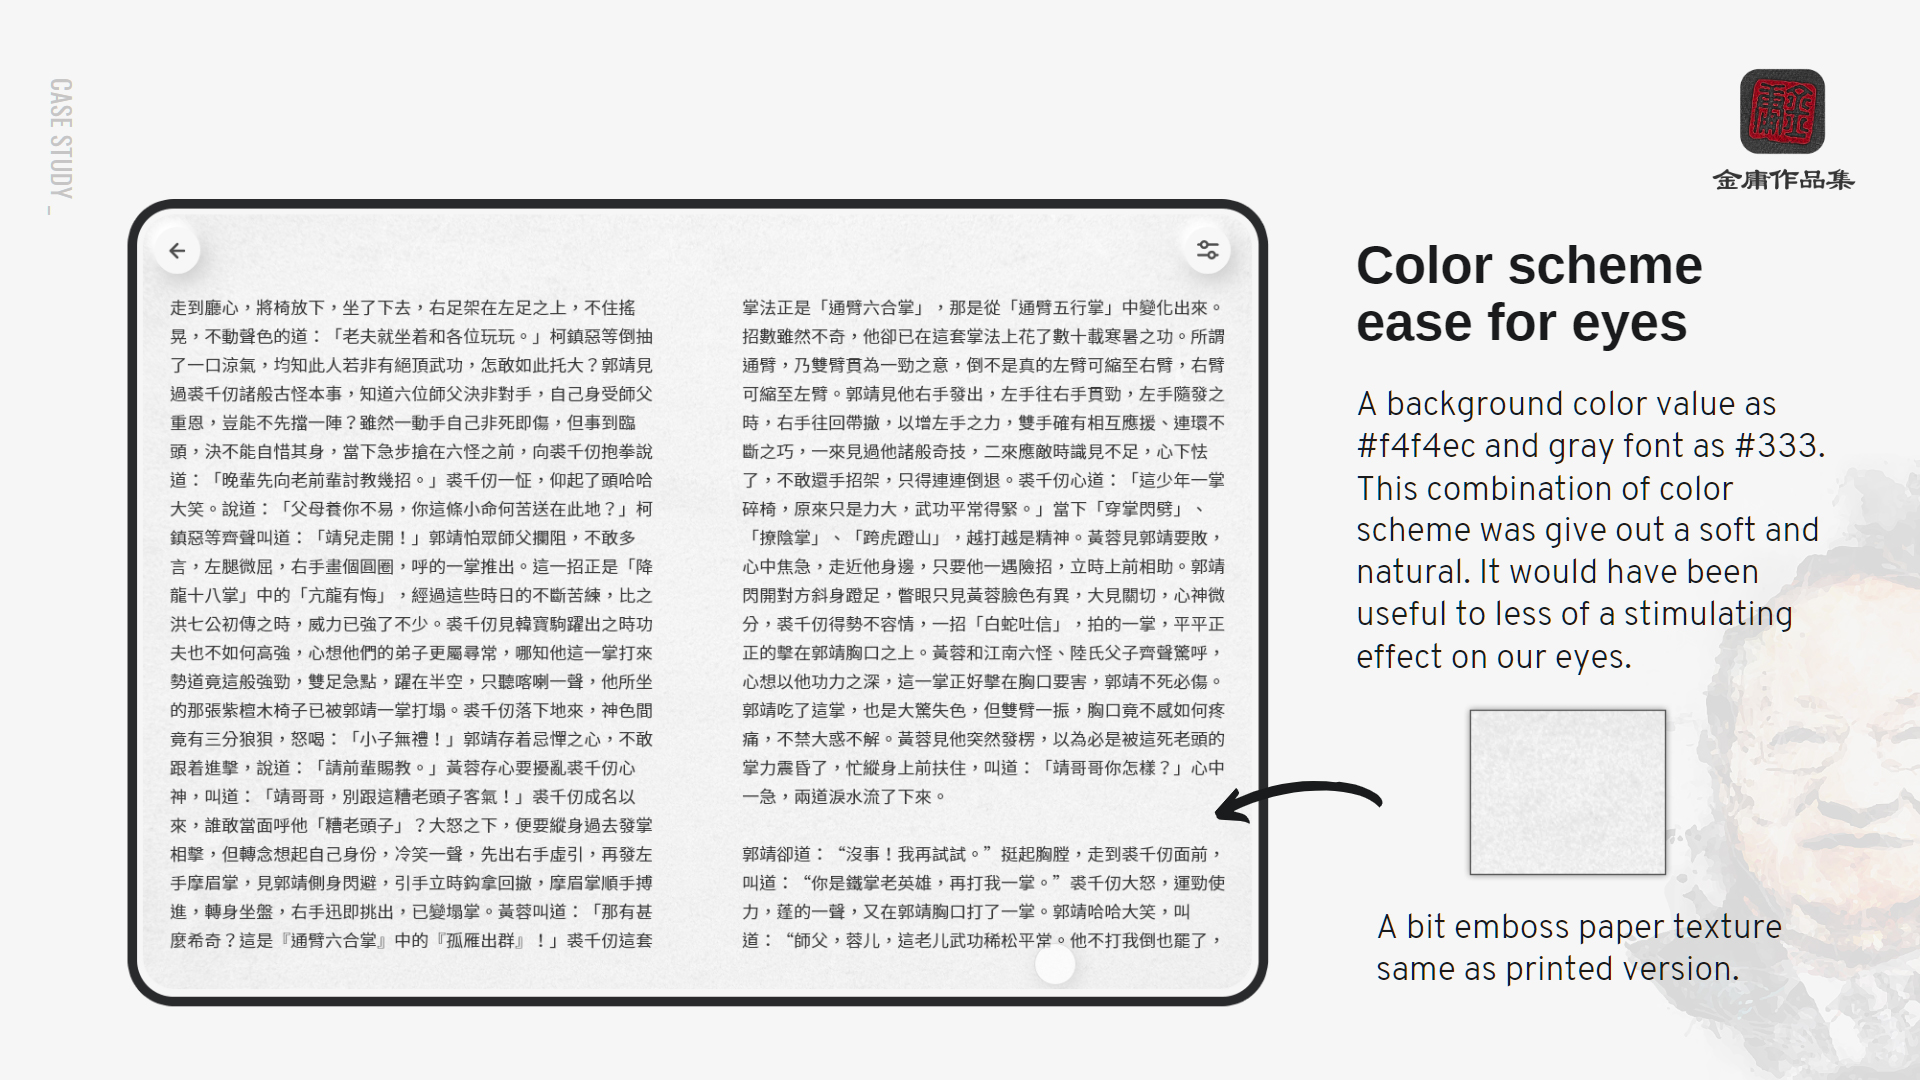
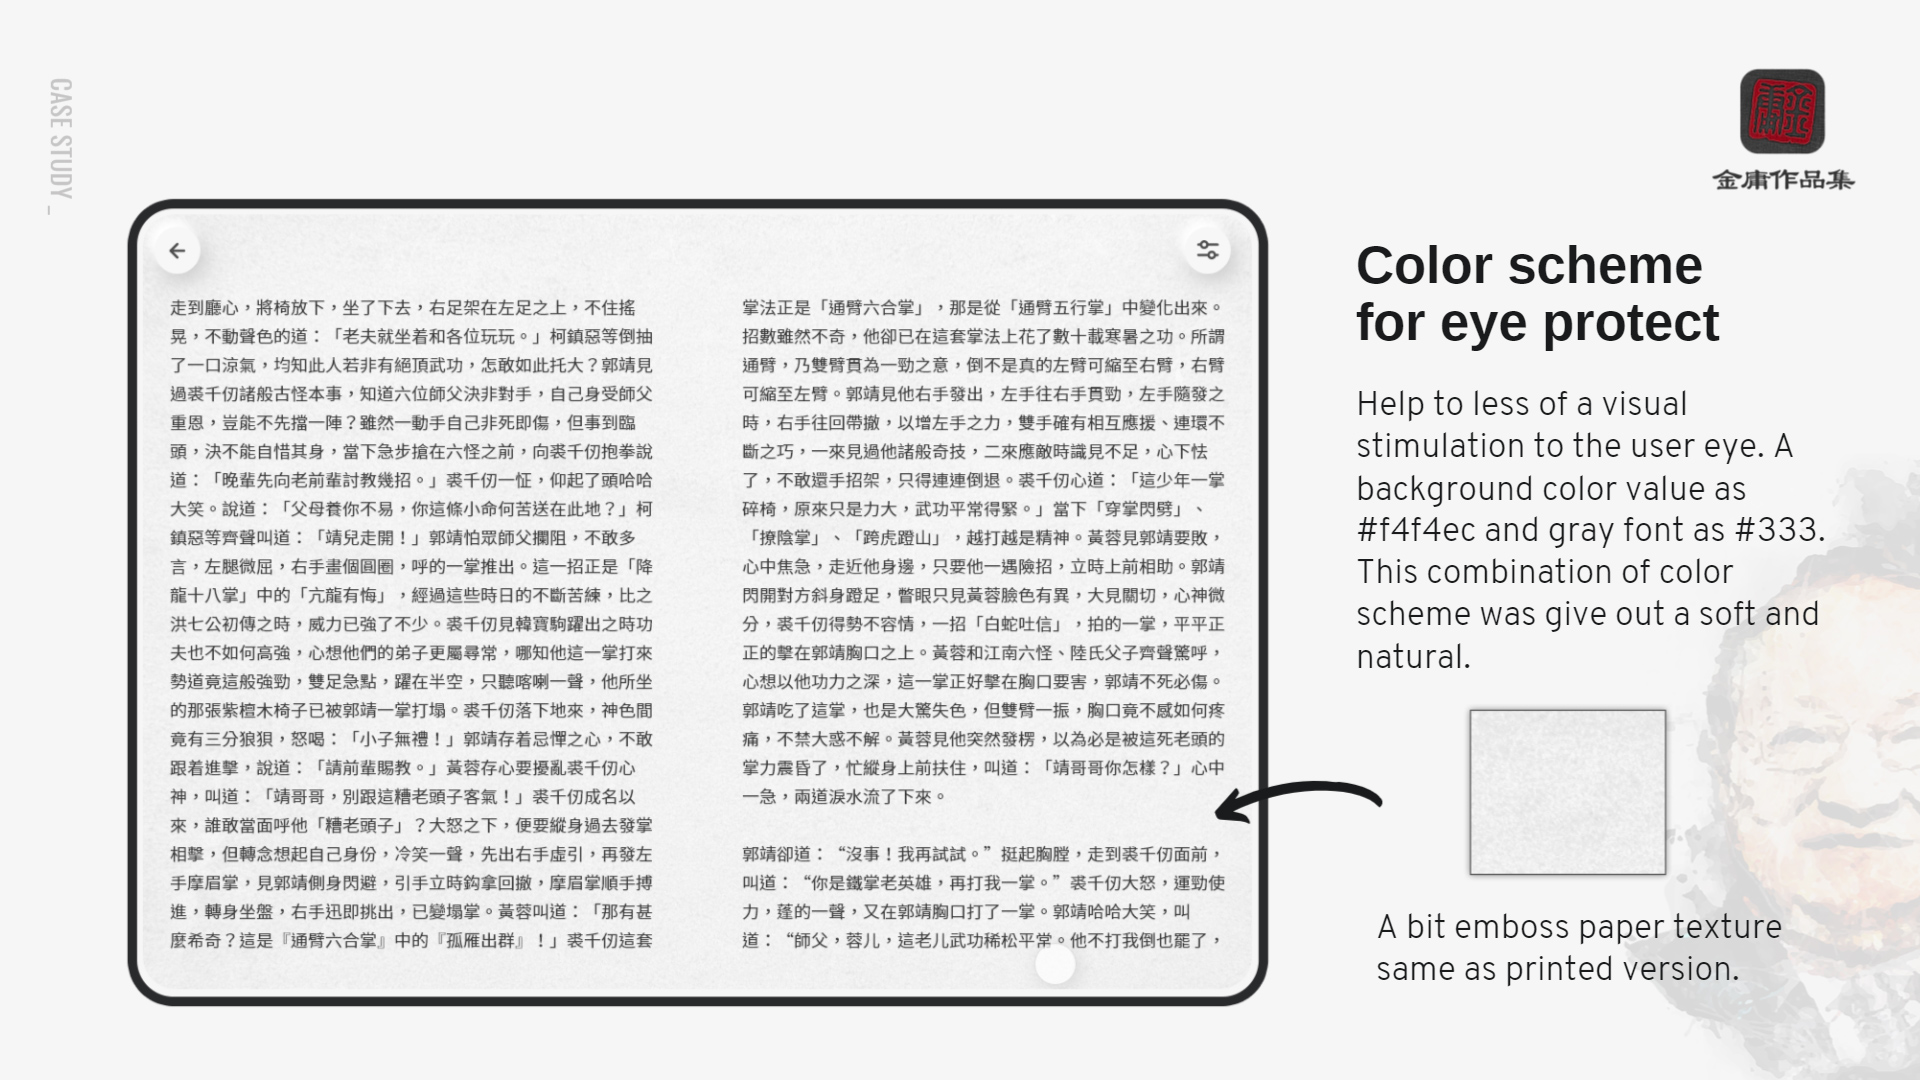
210223_01

diff --git a/jinyong_case_study.html b/jinyong_case_study.html
@@ -546,7 +546,7 @@ body, .body {
 
 
     <div class="copy-width spacing-large">
-        <p class=" h1 spacing-small">跟住嚟到, Solution Prototype部份。</p>
+        <p class=" h1 spacing-small">跟住嚟到,  Prototype部份。</p>
 
         <p class=" body spacing-medium">(下一頁 Slide.....)</p>
     </div>
@@ -563,7 +563,7 @@ body, .body {
 
         <p class=" h1 spacing-title">「 The reimagined Jin-Yong’s Themed-Bookstore 」 重新構想嘅 金庸主題書店</p>
 
-        <p class=" body spacing-small">第1個 Demo 展示金庸主題書店, 同埋書店嘅主頁......可以睇下Demo先.......</p>
+        <p class=" body spacing-small">第1個 Demo 展示金庸主題書店Landing, 同埋書店嘅內容結構......可以睇下Demo先.......</p>
 
 
         <p class=" body h1 spacing-copy">Demo解說: Play and Pause </p>
@@ -572,17 +572,16 @@ body, .body {
 
 
 
-
         <p class=" body h1 spacing-copy">Home UI部份 解說:</p>
 
-        <p class=" body spacing-small">呢度, 唔係單純書架UI, 分左section, Click相關插圖, 入去唔同嘅頁面, 係1個無限Looping posterboard 導航。</p>
+        <p class=" body spacing-small">Landing呢度, 係1個Looping posterboard 導航。 Click相關插圖, 入去唔同嘅頁面, </p>
 
         <p class=" body spacing-small">主題書店有4個部份<br>
             鉅著: 書店主頁<br>
-            有3個新加左嘅 互動內容<br>
+            另外, 有3個新加左嘅 互動內容<br>
             煮酒: 係小說人物資料<br>
             論劍: 係武功資料<br>
-            道盡: 關於金庸info
+            道盡: 關於金庸資訊
         </p>
 
         <p class=" h6 spacing-title">******總結: 提升左做主題書店, 整體UI 同Visual 都比Users多D共鳴, 唔係單純小說文字閱讀App, 針對番第3個 Pain point: UI唔吸引問題。</p>
@@ -595,7 +594,7 @@ body, .body {
         <p class=" h1 spacing-title">「 Bookstore 」 書店 UI部份 解說:</p>
 
 
-        <p class=" body spacing-medium">呢度係 書店Page，分左三類書籍，1.“細讀巨匠” 係金庸小說集，2.“江湖以外” 係小說參考書，3.“論盡金學” 係研究金學書籍, 豐富左主題書店書籍類別, 亦都可以擴大讀者群。 <------呢度係 針對番第4個 Pain point: 缺少左其他相關書籍。</p>
+        <p class=" body spacing-medium">呢度係 書店Page，分左三類書籍，第1有金庸小說集，第2係小說參考書，第3係金學研究, 豐富左主題書店類別, 亦都可以擴大讀者群。 <------呢度係 針對番第4個 Pain point: 缺少左其他相關書籍。</p>
 
 
         <p class=" body spacing-medium">跟住睇 (下一頁 Slide.....)</p>
@@ -606,11 +605,12 @@ body, .body {
 
 
     <div class="copy-width spacing-large">
-        <p class=" h1 spacing-title">「 Designing for long-form novel reads 」 為長篇小說閱讀 而設計功能</p>
+        <p class=" h1 spacing-title">「 Reinforced in-App feature for long-form reading 」 專為長篇小說閱讀 强化嘅功能</p>
 
         <p class=" body spacing-small">第2個 Demo展示 強化左閱讀功能, 同埋睇小說時嘅操作, 可以睇下Demo先.......</p>
 
         <p class=" body spacing-large">(下一頁 Slide.....)</p>
+
 
 
         <p class=" body h1 spacing-copy">UI部份 解說:</p>
@@ -618,28 +618,28 @@ body, .body {
         <p class=" body spacing-small">呢度係 “我的書架”頁面, 可以睇到自已詳細閱讀狀態 例如:<br>
 
         當前閱讀小說<br>
-        同埋已閱讀嘅頁面百分比 <br>
+        已閱讀嘅百分比 <br>
         評估完成小說所需要嘅時間<br>
         同埋章節/頁數詳細信息 <br>
         上次閱讀嘅時間<br><br>
 
-        <p class=" body spacing-small">******總結:  User唔再需要 假設閱讀 需要用幾多時間, 同埋每次睇完之後, 呢度都會更新。 比Users 係時間方面 有多D掌握。</p>  
+        <p class=" body spacing-small">******總結:  比Users 係時間方面 有多D掌握, 同埋每次睇完之後, 呢度都會更新。 </p>  
 
         <p class=" body spacing-large">(下一頁 Slide.....)</p>
 
         
 
         <p class=" h1 spacing-small">「 Reading on Tablet 」</p>
-        <p class=" body spacing-small">用Tablet, 係寬屏幕上閱讀時嘅效果, 視覺上更加 流暢易讀。 另外, 章節之間 亦都保留番 小說入面嘅插圖，可以保持番 實體小說相同感覺。</p>
+        <p class=" body spacing-small">用Tablet, 係寬屏幕上閱讀時嘅效果, 更加流暢易讀。 減少左用手機睇小說  有太多頁面滾動。 另外, 章節之間 亦都保留番 小說入面嘅插圖，可以保持番 實體小說相同完整性。</p>
 
-        <p class=" body spacing-small">******總結: 呢度解決 第2個Pain point: 用手機睇小說, 帶來唔舒服,  用Tablet 明顯減少左 太多頁面滾動。</p>
+        <!--<p class=" body spacing-small">******總結: 呢度解決 第2個Pain point: 用手機睇小說, 帶來唔舒服。</p>-->
 
         <p class=" body spacing-large">跟住睇 (下一頁 Slide.....)</p>
 
 
 
 
-        <p class=" h1 spacing-small">「 Color scheme ease for eyes 」 新加左嘅配色方案, 減底眼睛疲勞</p>
+        <p class=" h1 spacing-small">「 Color scheme for eye protect 」 新加嘅配色方案, 減底眼睛疲勞</p>
 
         <p class=" body spacing-small">“護眼模式”  係新加Feature，專為長時間閱讀嘅配色。 背景顏色係 好輕微淡黄(#f4f4ec)，同埋20% 灰色字體(#333)，有D紙紋理嘅效果, 比較自然柔和, 貼近實體小說感覺, 同埋, 呢個配色方案, 都做左D Reaearch, 個對比度 對眼睛刺激少D。</p>
 

diff --git a/project/jy_reader.html b/project/jy_reader.html
@@ -648,8 +648,8 @@
 
 
     <div class="copy-width spacing-large">
-      <p class="observable h1 spacing-title">Color scheme ease for eyes</p>
-      <p class="observable body spacing-sub-title">"Eye protect mode" as new featue with a specific for reading long period. A background color value as #f4f4ec and gray font as #333, with a bit emboss paper texture same as printed version. This combination of color scheme was give out a soft and natural. It would have been <b>useful to less of a stimulating effect on our eyes</b>. That provides natural contrast and readability for body text. <span class="material-icons m-icons-position" style="font-size:12pt;">open_in_new</span> <a class="image-popup-fit-width underlined" title="Click on image to enlarge/reduce it"  href="../images/projects/jinyong_bookstore/color_scheme.jpg">Detail</a></p>
+      <p class="observable h1 spacing-title">Color scheme for eye protect</p>
+      <p class="observable body spacing-sub-title">The "Eye protect mode" as new feature that help to less of a visual stimulation to the user eye. A background color value as #f4f4ec and gray font as #333, with a bit emboss paper texture same as printed version. </b>. That provides natural contrast and readability for body text. <span class="material-icons m-icons-position" style="font-size:12pt;">open_in_new</span> <a class="image-popup-fit-width underlined" title="Click on image to enlarge/reduce it"  href="../images/projects/jinyong_bookstore/color_scheme.jpg">Detail</a></p>
 
       <p class="observable body spacing-medium">Credit: <i>The color scheme according to <a href="https://www.cs.cmu.edu/~jbigham/pubs/pdfs/2017/colors.pdf" target="_blank" class="observable underlined" href="">"Luz Rello </a>- Bigham Human-Computer Interaction Institute & Carnegie Mellon University"</i></p>
 
